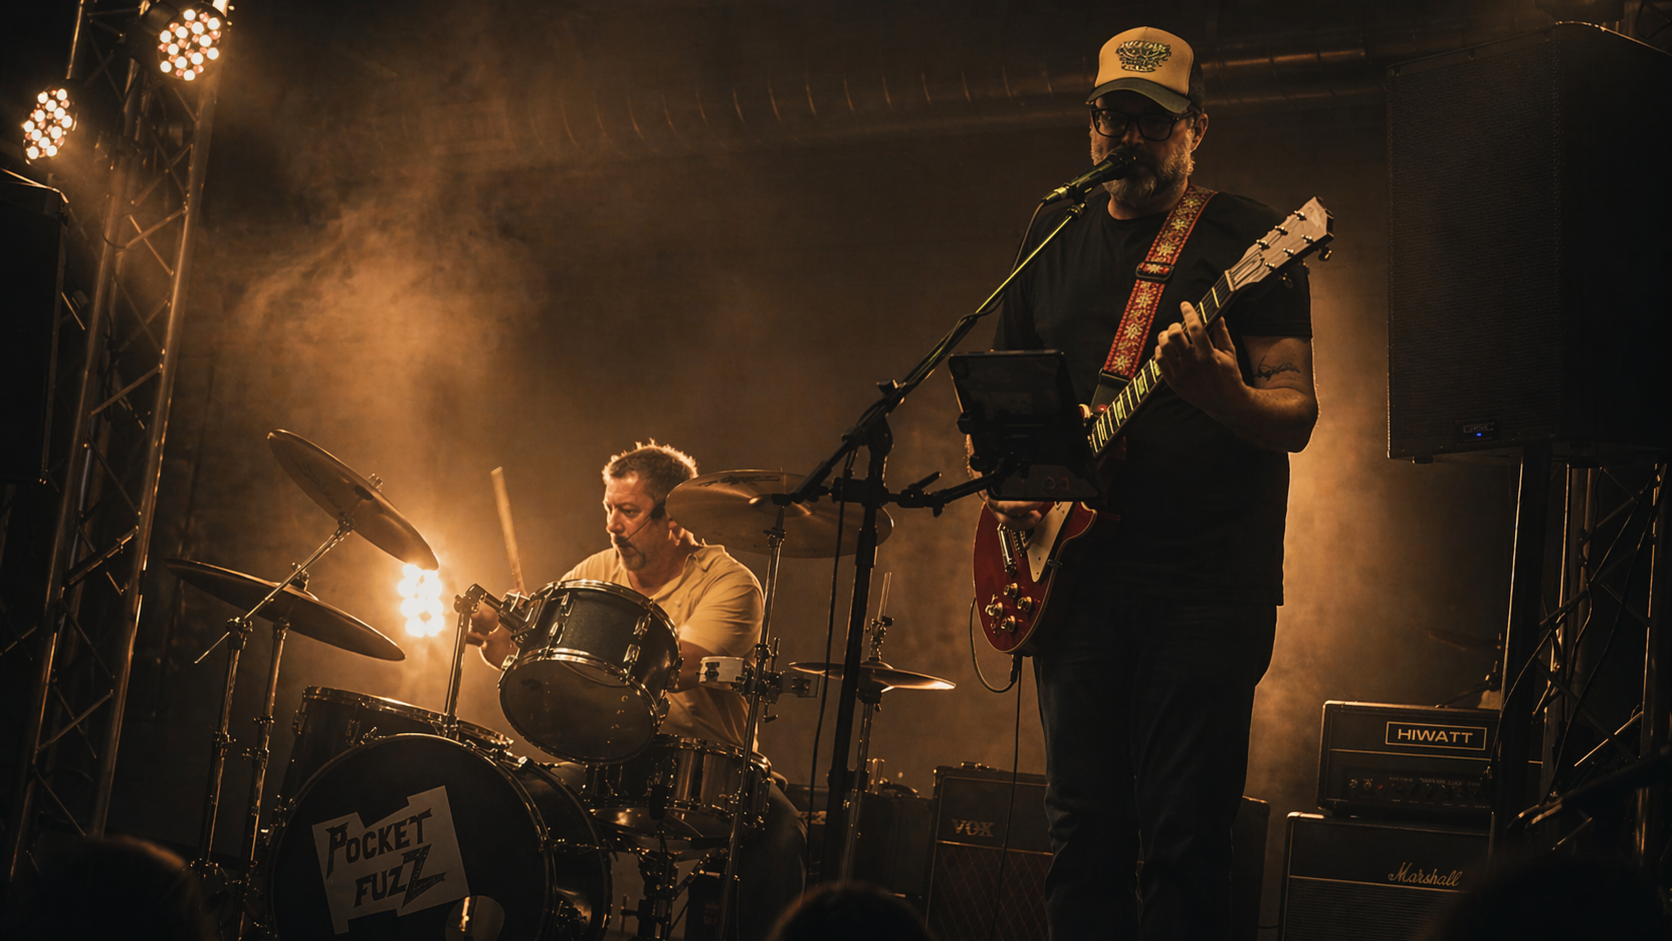
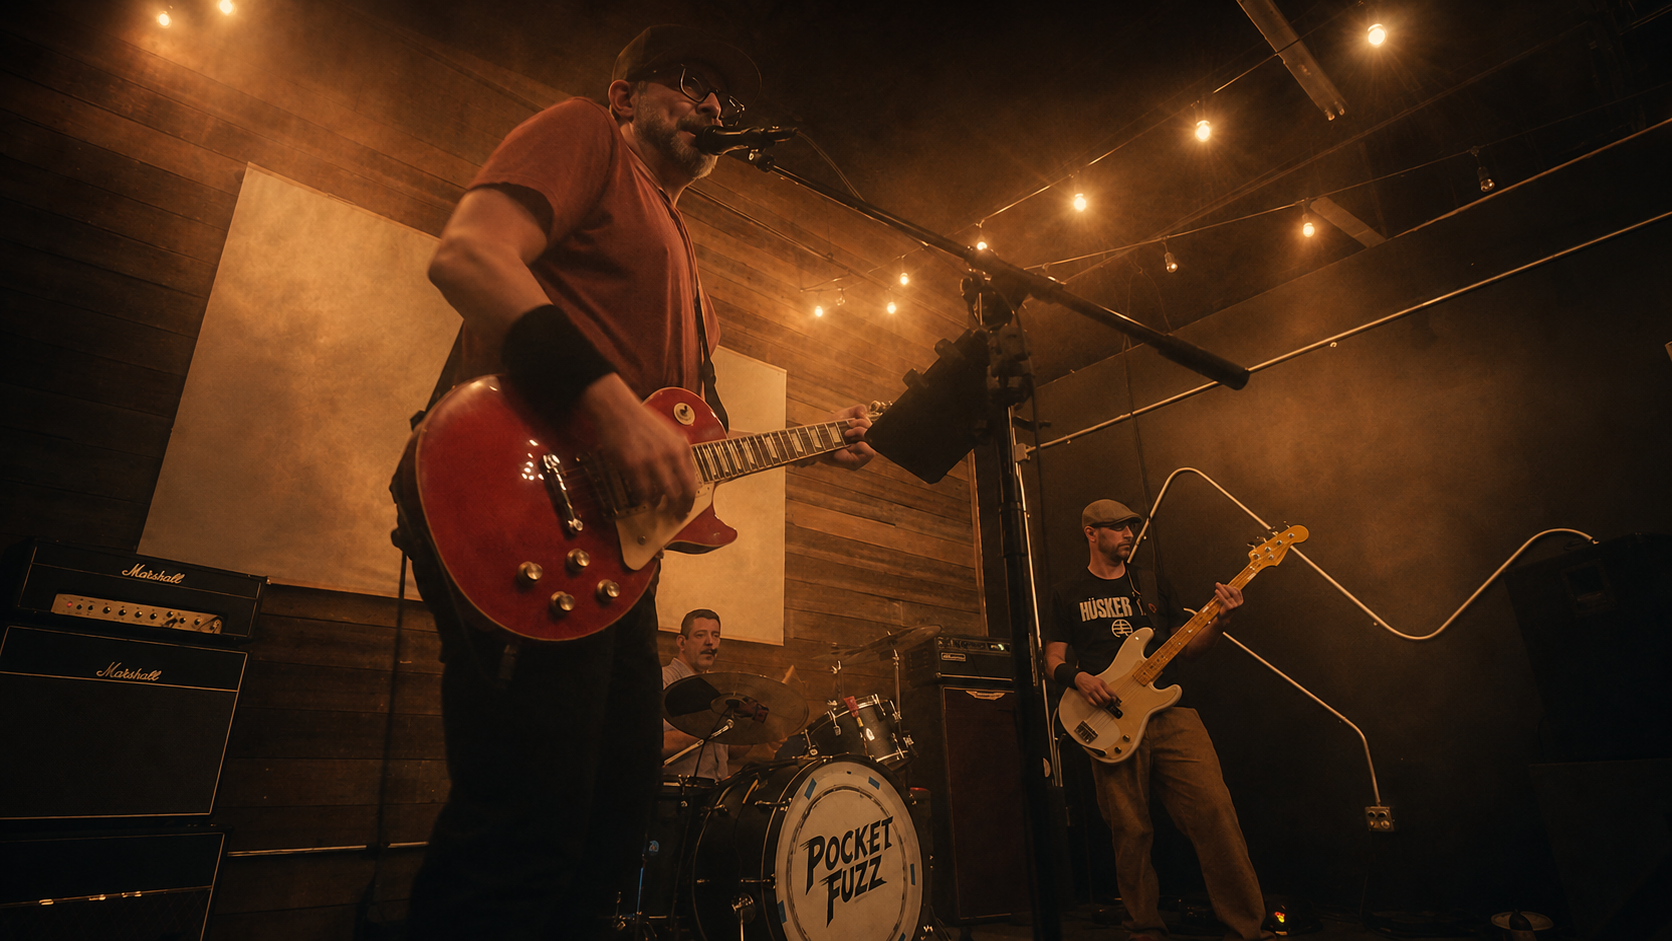
Videos and Pictures

diff --git a/app/page.tsx b/app/page.tsx
@@ -92,6 +92,11 @@ export default function Home() {
 	    length: "2:11",
 	    video: "https://www.youtube.com/embed/r9EvcaGu7aQ",
 	  },
+ 	  {
+	    title: "Rocky Mountain Way",
+	    length: "3:02",
+	    video: "https://www.youtube.com/embed/nlISx06ph0c",
+	  },
 	  {
 	    title: "Your Touch",
  	    length: "1:23",
@@ -99,14 +104,17 @@ export default function Home() {
 	},
   ];
 
-  const defaultVideo = "https://www.youtube.com/embed/tZoezYyBFCY";
+  const defaultVideo = "https://www.youtube.com/embed/tSciqx4_ieY";
   const [activeVideo, setActiveVideo] = useState(defaultVideo);
-  const [activeTitle, setActiveTitle] = useState("");
+  const [activeTitle, setActiveTitle] = useState("Pocket Fuzz");
 
   const gallery: string[] = [
-    "/images/PF_PROMO1.jpg?auto=format&fit=crop&w=1200&q=80",
-    "/images/pocketfuzz3.png?auto=format&fit=crop&w=1200&q=80",
-    "/images/PF_PROMO2.jpg?auto=format&fit=crop&w=1200&q=80",
+    "/images/PF_PROMO1.jpg",
+    "/images/PF_PROMO3.jpg",
+    "/images/PF_PROMO2.jpg",
+    "/images/Brandon1.png",
+    "/images/Ricky1.png",
+    "/images/Bobby1.png",
   ];
 
   return (
@@ -181,9 +189,9 @@ export default function Home() {
           <div className="relative">
             <div className="absolute -left-4 -top-4 h-full w-full border border-red-700/50" />
             <img
-              src="/images/pocketfuzz3.png"
+              src="/images/PocketFuzz1.png"
               alt="Pocket Fuzz live"
-              className="relative h-[460px] w-full border border-stone-800 object-cover grayscale contrast-125"
+              className="relative h-[460px] w-full border border-stone-800 object-cover"
             />
           </div>
         </div>
@@ -344,7 +352,7 @@ export default function Home() {
                 key={image}
                 src={image}
                 alt={`Pocket Fuzz photo ${index + 1}`}
-                className="h-80 w-full border border-stone-800 object-cover grayscale contrast-125"
+                className="h-80 w-full border border-stone-800 object-cover"
               />
             ))}
           </div>